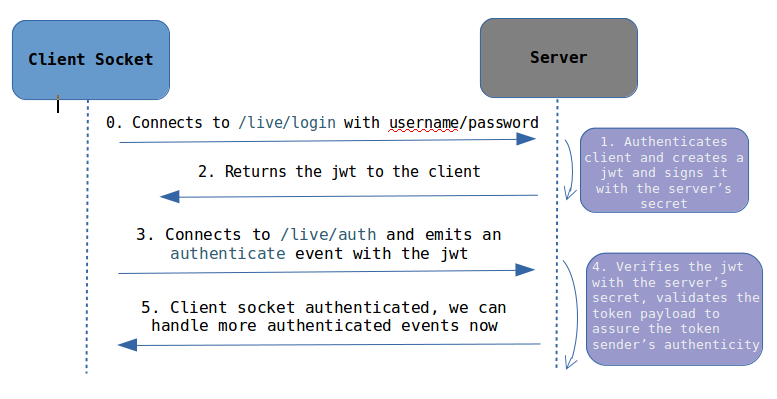
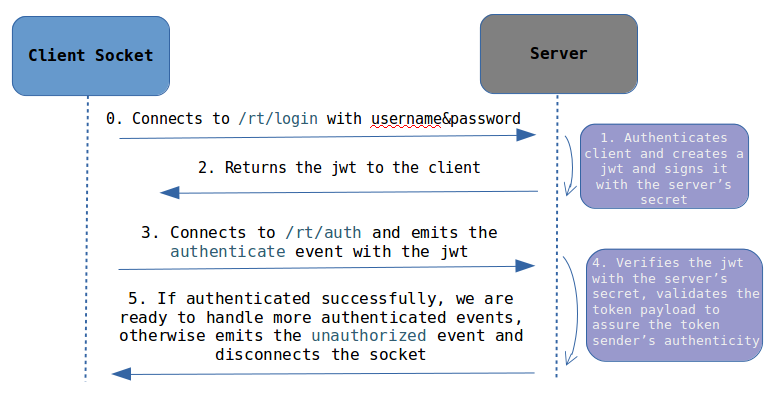
update auth flow imgs and real-time io paths

diff --git a/client/livechat/elfocrypt.js b/client/livechat/elfocrypt.js
@@ -21,7 +21,7 @@ const alg = 'aes-256-cbc';
 const hmac_alg = 'sha256';
 const arg = process.argv[2];
 const frd = process.argv[3];
-const sock = io.connect('https://localhost.daplie.com:3761/live/auth');
+const sock = io.connect('https://localhost.daplie.com:3761/rt/auth');
 var db = levelup(path.resolve('..', 'db'));
 
 function exit(code) {
@@ -329,7 +329,7 @@ function logout(cb) {
 }
 
 function login(usern, passw, cb) {
-  const login_sock = io.connect('https://localhost.daplie.com:3761/live/login');
+  const login_sock = io.connect('https://localhost.daplie.com:3761/rt/login');
   gen_sign(passw, (err, sig) => {  
     if (err) {
       login_sock.disconnect();

diff --git a/server/server.js b/server/server.js
@@ -141,8 +141,8 @@ app.use('/', router);
  */
 
 socket_io = require('socket.io')(server);
-login_io = socket_io.of('/live/login');
-io = socket_io.of('/live/auth');
+login_io = socket_io.of('/rt/login');
+io = socket_io.of('/rt/auth');
 
 login_io.on('connection', (sock) => {
   sock.on('login', (dat) => {
